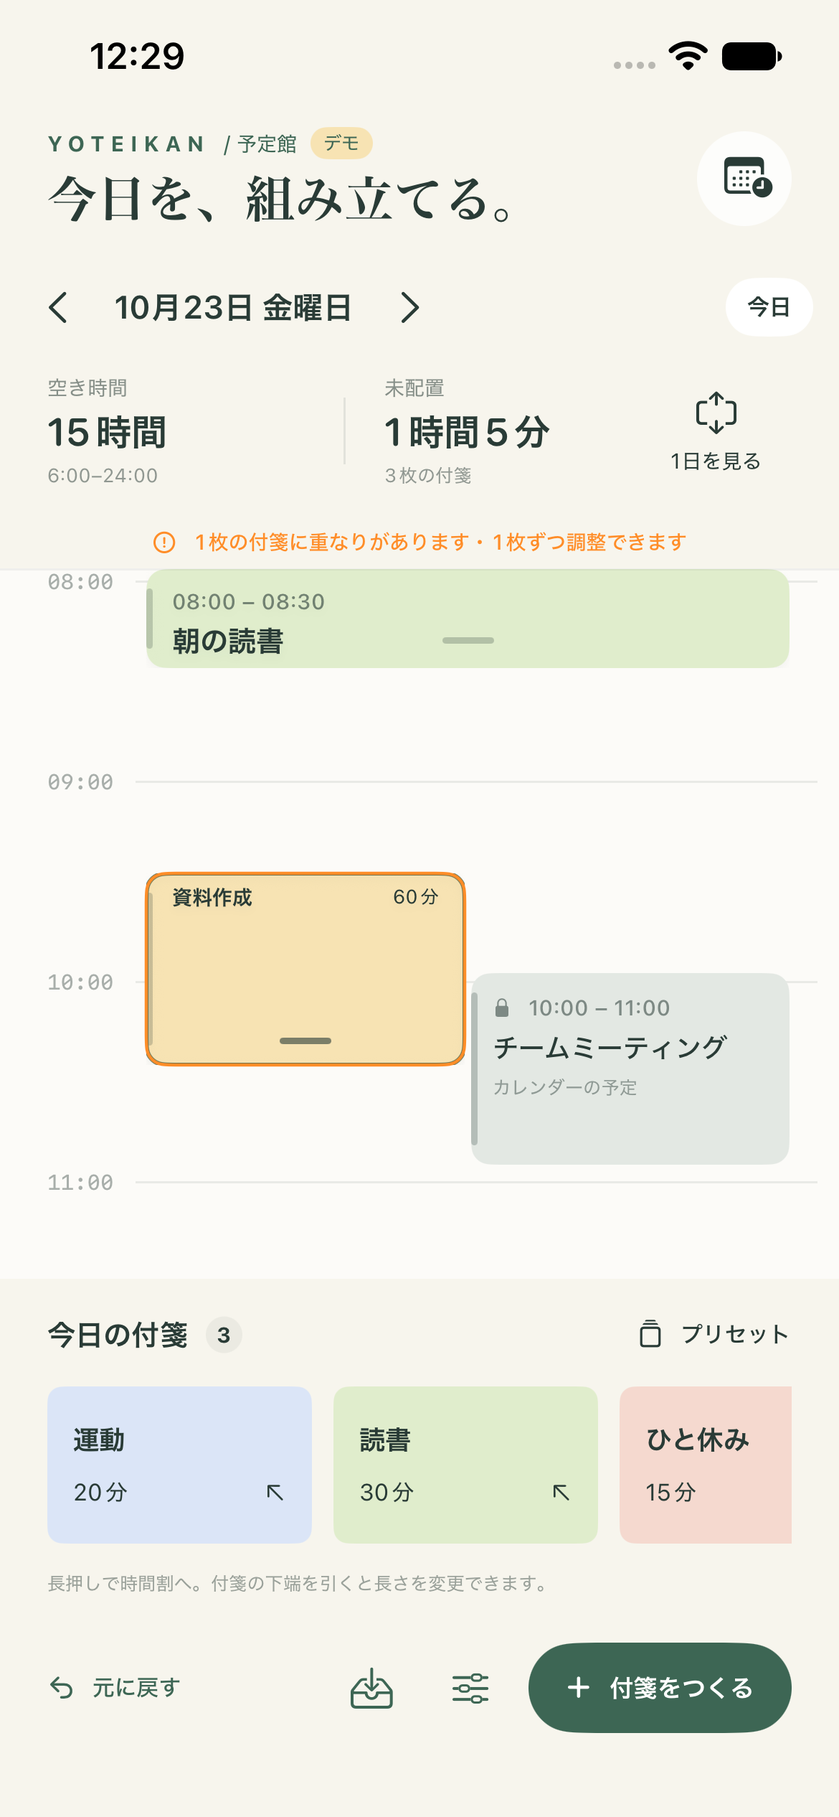
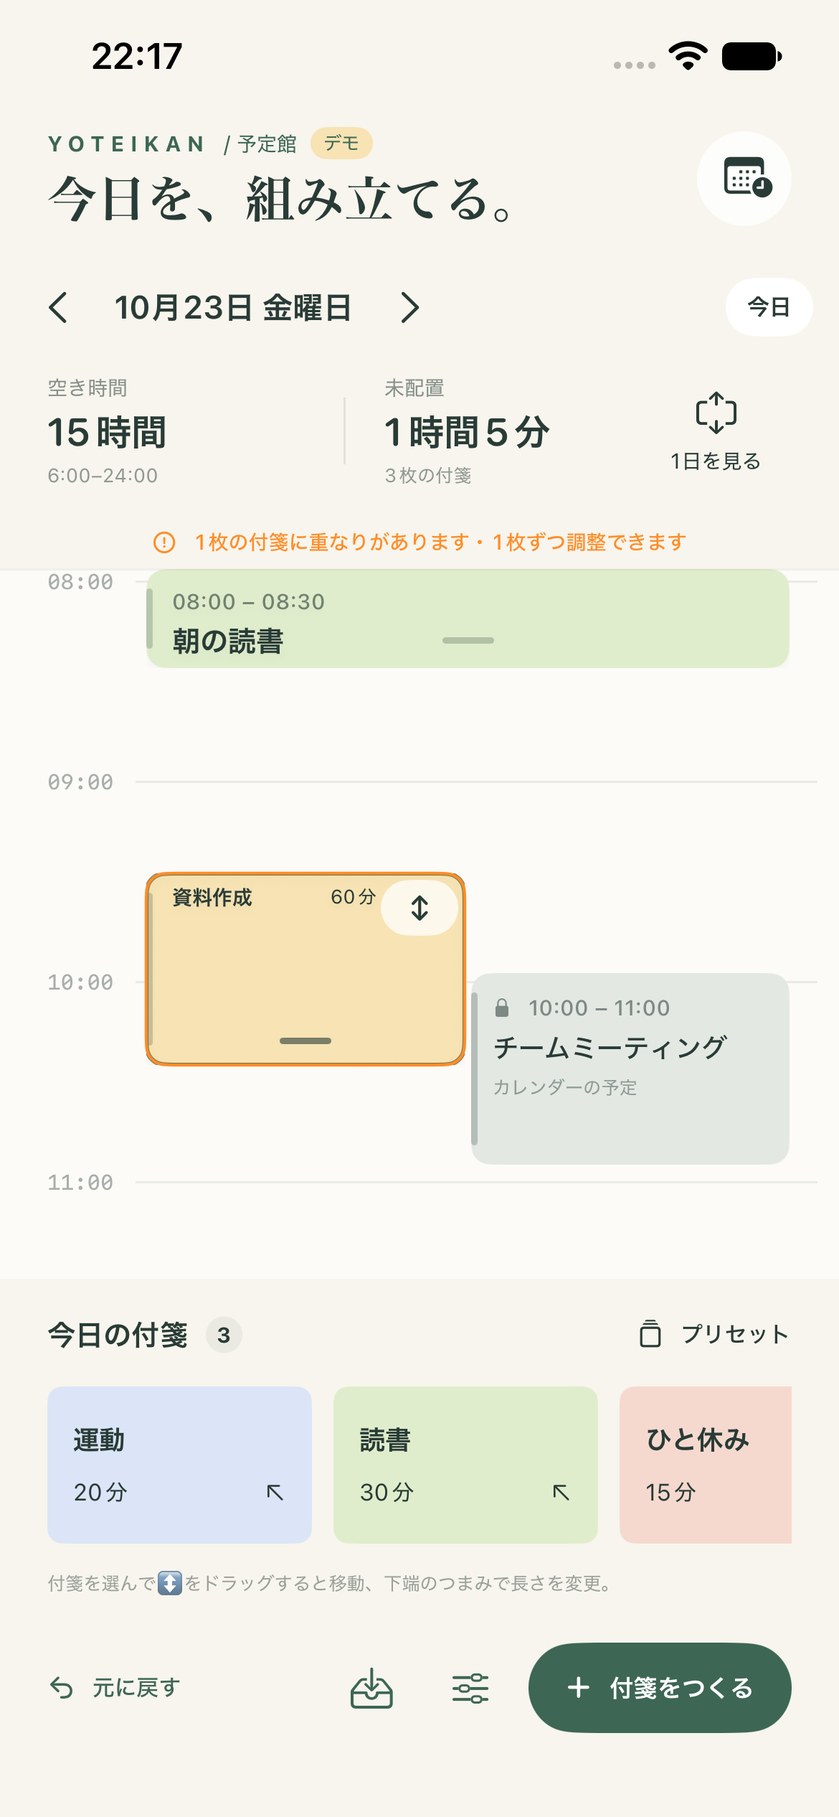
Fix start-time dragging for placed sticky notes (#1)

diff --git a/ios/Yoteikan/PlannerView.swift b/ios/Yoteikan/PlannerView.swift
@@ -123,6 +123,20 @@ struct PlannerView: View {
                                 .frame(width: width - 3, height: max(overview ? 3 : 24, CGFloat(task.minutes) * scale - (overview ? 1 : 4) + (stretching == task.id ? stretch : 0)))
                                 .overlay { if collision { RoundedRectangle(cornerRadius: 9).stroke(.orange, lineWidth: 1.5).allowsHitTesting(false) } }
                                 .overlay(alignment: .bottom) { if !overview { resizeHandle(task) } }
+                                .contentShape(Rectangle())
+                                .overlay(alignment: .topTrailing) {
+                                    if selected == task.id && !overview { moveHandle(task).padding(3) }
+                                }
+                                .overlay(alignment: .top) {
+                                    if moving == task.id && !returningToInbox {
+                                        let start = task.start! + PlannerMath.snap(Double(shift / scale))
+                                        Text("\(clockText(start)) – \(clockText(start + task.minutes))")
+                                            .font(.system(size: 11, weight: .semibold, design: .monospaced))
+                                            .padding(.horizontal, 10).padding(.vertical, 5)
+                                            .background(ink, in: Capsule()).foregroundStyle(.white)
+                                            .offset(y: -29).allowsHitTesting(false)
+                                    }
+                                }
                                 .offset(x: 58 + width * CGFloat(slot.column), y: CGFloat(task.start! - PlannerMath.first) * scale + 2 + (moving == task.id ? shift : 0))
                                 .zIndex(moving == task.id || stretching == task.id ? 5 : selected == task.id ? 3 : 1)
                                 .onTapGesture { if selected == task.id { editing = task } else { selected = task.id } }
@@ -167,7 +181,7 @@ struct PlannerView: View {
                 if duration >= 45 { Text(task.title).font(.system(size: 7, weight: .semibold)).lineLimit(1) }
             } else {
             if !compact { Text("\(clockText(start)) – \(clockText(start + duration))").font(.system(size: 10, weight: .medium)).foregroundStyle(ink.opacity(0.6)) }
-            HStack(spacing: 4) { Text(task.title).font(.system(size: compact ? 10 : 14, weight: .semibold)).lineLimit(1); Spacer(minLength: 0); if compact { Text("\(duration)分").font(.system(size: 9)) } }
+            HStack(spacing: 4) { Text(task.title).font(.system(size: compact ? 10 : 14, weight: .semibold)).lineLimit(1); Spacer(minLength: 0); if compact { Text("\(duration)分").font(.system(size: 9)) } }.padding(.trailing, selected == task.id ? 29 : 0)
             if !compact && duration >= 40 { Text(durationText(duration)).font(.system(size: 10)).foregroundStyle(ink.opacity(0.6)) }
             Spacer(minLength: 0)
             }
@@ -181,7 +195,7 @@ struct PlannerView: View {
     }
     private func resizeHandle(_ task: Sticky) -> some View {
         ZStack { Color.clear; Capsule().fill(ink.opacity(selected == task.id ? 0.6 : 0.25)).frame(width: 24, height: 3) }
-            .frame(height: 22).contentShape(Rectangle())
+            .frame(width: 44, height: 22).contentShape(Rectangle())
             .highPriorityGesture(DragGesture(minimumDistance: 0, coordinateSpace: .global).onChanged { value in
                 selected = task.id; stretching = task.id
                 let newDuration = PlannerMath.duration(task.minutes + PlannerMath.snap(Double(value.translation.height / scale)), start: task.start!)
@@ -191,23 +205,48 @@ struct PlannerView: View {
             })
             .accessibilityLabel("\(task.title)の長さを変更").accessibilityIdentifier("resize-\(task.title)")
     }
+    private func moveHandle(_ task: Sticky) -> some View {
+        Image(systemName: "arrow.up.and.down")
+            .font(.system(size: 12, weight: .semibold))
+            .frame(width: 36, height: 26)
+            .background(.white.opacity(0.75), in: Capsule())
+            .contentShape(Rectangle())
+            .highPriorityGesture(DragGesture(minimumDistance: 3, coordinateSpace: .global)
+                .onChanged { value in
+                    updateMove(task, delta: value.translation.height, location: value.location)
+                }
+                .onEnded { value in
+                    finishMove(task, delta: value.translation.height, location: value.location)
+                })
+            .accessibilityElement(children: .ignore)
+            .accessibilityLabel("\(task.title)の開始時刻を変更")
+            .accessibilityHint("上下にドラッグして移動します")
+            .accessibilityIdentifier("move-\(task.title)")
+    }
+    private func updateMove(_ task: Sticky, delta: CGFloat, location: CGPoint) {
+        guard let start = task.start else { return }
+        selected = task.id; moving = task.id
+        returningToInbox = inboxFrame.contains(location)
+        let newStart = PlannerMath.start(start + PlannerMath.snap(Double(delta / scale)), duration: task.minutes)
+        shift = CGFloat(newStart - start) * scale
+    }
+    private func finishMove(_ task: Sticky, delta: CGFloat, location: CGPoint) {
+        defer { moving = nil; shift = 0; returningToInbox = false }
+        guard let start = task.start else { return }
+        if inboxFrame.contains(location) { plans.put(task.id, at: nil); selected = nil }
+        else { plans.move(task.id, start: start + PlannerMath.snap(Double(delta / scale))) }
+    }
     private func moveGesture(_ task: Sticky) -> some Gesture {
         LongPressGesture(minimumDuration: 0.25).sequenced(before: DragGesture(minimumDistance: 0, coordinateSpace: .global))
             .onChanged { value in
                 if case .second(true, let drag?) = value {
-                    selected = task.id; moving = task.id
-                    returningToInbox = inboxFrame.contains(drag.location)
                     let delta = drag.location.y - (touchTask == task.id ? touchStart.y : drag.startLocation.y)
-                    let newStart = PlannerMath.start(task.start! + PlannerMath.snap(Double(delta / scale)), duration: task.minutes)
-                    shift = CGFloat(newStart - task.start!) * scale
+                    updateMove(task, delta: delta, location: drag.location)
                 }
             }.onEnded { value in
                 if case .second(true, let drag?) = value {
-                    if inboxFrame.contains(drag.location) { plans.put(task.id, at: nil); selected = nil }
-                    else {
-                        let delta = drag.location.y - (touchTask == task.id ? touchStart.y : drag.startLocation.y)
-                        plans.move(task.id, start: task.start! + PlannerMath.snap(Double(delta / scale)))
-                    }
+                    let delta = drag.location.y - (touchTask == task.id ? touchStart.y : drag.startLocation.y)
+                    finishMove(task, delta: delta, location: drag.location)
                 }
                 moving = nil; shift = 0; returningToInbox = false
             }
@@ -229,7 +268,7 @@ struct PlannerView: View {
                     }.padding(.vertical, 2)
                 }
             }
-            Text("長押しで時間割へ。付箋の下端を引くと長さを変更できます。 ").font(.system(size: 9)).foregroundStyle(ink.opacity(0.45))
+            Text("付箋を選んで↕をドラッグすると移動、下端のつまみで長さを変更。").font(.system(size: 9)).foregroundStyle(ink.opacity(0.45))
         }.padding(.horizontal, 22).padding(.top, 15).padding(.bottom, 13)
             .background(returningToInbox ? tones[0] : paper)
             .background { GeometryReader { proxy in Color.clear.onAppear { inboxFrame = proxy.frame(in: .global) }.onChange(of: proxy.frame(in: .global)) { _, frame in inboxFrame = frame } } }

diff --git a/docs/screenshots/index.html b/docs/screenshots/index.html
@@ -1,1 +1,1 @@
-<!doctype html><html lang="ja"><meta charset="utf-8"><meta name="viewport" content="width=device-width,initial-scale=1"><title>予定館・実機能確認</title><style>body{background:#f7f5ed;color:#293b35;font:15px system-ui;margin:32px}h1{font-size:24px}.grid{display:grid;grid-template-columns:repeat(auto-fit,minmax(240px,1fr));gap:28px}figure{margin:0}img{width:100%;max-width:390px;border-radius:24px;box-shadow:0 8px 32px #293b3520}figcaption{margin:12px 0 20px}p{line-height:1.8}</style><h1>予定館 / シミュレーター動作確認</h1><p>iPhone 17e・iOS 27。XCTestで実際に操作した画面です。デモ表記のある画面はサンプル予定、カレンダー画面はシミュレーターのEventKitに登録した検証用予定を使用しています。</p><div class="grid"><figure><a href="01-day-planner.png"><img src="01-day-planner.png" alt="01-day-planner"></a><figcaption>01-day-planner</figcaption></figure><figure><a href="02-presets.png"><img src="02-presets.png" alt="02-presets"></a><figcaption>02-presets</figcaption></figure><figure><a href="03-sticky-editor.png"><img src="03-sticky-editor.png" alt="03-sticky-editor"></a><figcaption>03-sticky-editor</figcaption></figure><figure><a href="04-overlap-after-drag.png"><img src="04-overlap-after-drag.png" alt="04-overlap-after-drag"></a><figcaption>04-overlap-after-drag</figcaption></figure><figure><a href="05-resize-overlap.png"><img src="05-resize-overlap.png" alt="05-resize-overlap"></a><figcaption>05-resize-overlap</figcaption></figure><figure><a href="06-day-overview.png"><img src="06-day-overview.png" alt="06-day-overview"></a><figcaption>06-day-overview</figcaption></figure><figure><a href="07-calendar-settings.png"><img src="07-calendar-settings.png" alt="07-calendar-settings"></a><figcaption>07-calendar-settings</figcaption></figure><figure><a href="08-real-calendar-events.png"><img src="08-real-calendar-events.png" alt="08-real-calendar-events"></a><figcaption>08-real-calendar-events</figcaption></figure></div></html>
+<!doctype html><html lang="ja"><meta charset="utf-8"><meta name="viewport" content="width=device-width,initial-scale=1"><title>予定館・実機能確認</title><style>body{background:#f7f5ed;color:#293b35;font:15px system-ui;margin:32px}h1{font-size:24px}.grid{display:grid;grid-template-columns:repeat(auto-fit,minmax(240px,1fr));gap:28px}figure{margin:0}img{width:100%;max-width:390px;border-radius:24px;box-shadow:0 8px 32px #293b3520}figcaption{margin:12px 0 20px}p{line-height:1.8}</style><h1>予定館 / シミュレーター動作確認</h1><p>iPhone 17e・iOS 27。XCTestで実際に操作した画面です。デモ表記のある画面はサンプル予定、カレンダー画面はシミュレーターのEventKitに登録した検証用予定を使用しています。</p><div class="grid"><figure><a href="01-day-planner.png"><img src="01-day-planner.png" alt="01-day-planner"></a><figcaption>01-day-planner</figcaption></figure><figure><a href="02-presets.png"><img src="02-presets.png" alt="02-presets"></a><figcaption>02-presets</figcaption></figure><figure><a href="03-sticky-editor.png"><img src="03-sticky-editor.png" alt="03-sticky-editor"></a><figcaption>03-sticky-editor</figcaption></figure><figure><a href="04-overlap-after-drag.png"><img src="04-overlap-after-drag.png" alt="04-overlap-after-drag"></a><figcaption>04-overlap-after-drag</figcaption></figure><figure><a href="05-resize-overlap.png"><img src="05-resize-overlap.png" alt="05-resize-overlap"></a><figcaption>05-resize-overlap</figcaption></figure><figure><a href="06-day-overview.png"><img src="06-day-overview.png" alt="06-day-overview"></a><figcaption>06-day-overview</figcaption></figure><figure><a href="07-calendar-settings.png"><img src="07-calendar-settings.png" alt="07-calendar-settings"></a><figcaption>07-calendar-settings</figcaption></figure><figure><a href="08-real-calendar-events.png"><img src="08-real-calendar-events.png" alt="08-real-calendar-events"></a><figcaption>08-real-calendar-events</figcaption></figure><figure><a href="09-start-time-drag.png"><img src="09-start-time-drag.png" alt="09-start-time-drag"></a><figcaption>09-start-time-drag</figcaption></figure></div></html>

diff --git a/ios/YoteikanUITests/YoteikanUITests.swift b/ios/YoteikanUITests/YoteikanUITests.swift
@@ -107,4 +107,63 @@ final class YoteikanUITests: XCTestCase {
         app.buttons["calendarSettings"].tap(); toggle.coordinate(withNormalizedOffset: CGVector(dx: 0.9, dy: 0.5)).tap(); app.buttons["closeCalendar"].tap()
         XCTAssertTrue(app.descendants(matching: .any).matching(identifier: "fixed-チームミーティング").firstMatch.waitForExistence(timeout: 3))
     }
+
+    private func createAndPlaceSticky() -> XCUIElement {
+        app.buttons["newStickyButton"].tap()
+        app.textFields["stickyTitle"].tap()
+        app.textFields["stickyTitle"].typeText("移動の確認")
+        app.buttons["duration-60"].tap()
+        app.buttons["saveSticky"].tap()
+        let inbox = app.descendants(matching: .any).matching(identifier: "inbox-移動の確認").firstMatch
+        XCTAssertTrue(inbox.waitForExistence(timeout: 3))
+        let target = app.scrollViews["timeline"].coordinate(withNormalizedOffset: CGVector(dx: 0.6, dy: 0.4))
+        inbox.coordinate(withNormalizedOffset: CGVector(dx: 0.5, dy: 0.5)).press(forDuration: 0.7, thenDragTo: target)
+        let task = app.otherElements["task-移動の確認"]
+        XCTAssertTrue(task.waitForExistence(timeout: 3))
+        return task
+    }
+    private func placement(of task: XCUIElement) -> (start: Int, duration: Int) {
+        let fields = (task.value as? String ?? "").split(separator: "|")
+        XCTAssertEqual(fields.count, 2)
+        guard fields.count == 2 else { return (-1, -1) }
+        let clock = fields[0].split(separator: ":").compactMap { Int($0) }
+        guard clock.count == 2, let duration = Int(fields[1]) else { XCTFail("Missing placement value"); return (-1, -1) }
+        return (clock[0] * 60 + clock[1], duration)
+    }
+    func test08NewlyPlacedStickyMovesFromEmptyBodyArea() {
+        launch(["--reset-test-data"])
+        let task = createAndPlaceSticky()
+        let before = placement(of: task)
+        let point = task.coordinate(withNormalizedOffset: CGVector(dx: 0.8, dy: 0.6))
+        point.press(forDuration: 0.5, thenDragTo: point.withOffset(CGVector(dx: 0, dy: -46.5)))
+        let after = placement(of: task)
+        XCTAssertEqual(after.start, before.start - 30)
+        XCTAssertEqual(after.duration, 60)
+        XCTAssertFalse(app.descendants(matching: .any).matching(identifier: "inbox-移動の確認").firstMatch.exists)
+    }
+    func test09MoveHandleChangesStartAndPersistsWithUndo() {
+        launch(["--reset-test-data"])
+        let task = createAndPlaceSticky()
+        let before = placement(of: task)
+        let handle = app.otherElements["move-移動の確認"]
+        XCTAssertTrue(handle.waitForExistence(timeout: 3))
+        let point = handle.coordinate(withNormalizedOffset: CGVector(dx: 0.5, dy: 0.5))
+        point.press(forDuration: 0.05, thenDragTo: point.withOffset(CGVector(dx: 0, dy: -46.5)))
+        XCTAssertEqual(placement(of: task).start, before.start - 30)
+        XCTAssertEqual(placement(of: task).duration, 60)
+        shot("09-start-time-drag")
+        app.buttons["undoButton"].tap()
+        XCTAssertEqual(placement(of: task).start, before.start)
+        XCTAssertEqual(placement(of: task).duration, 60)
+        let handleAgain = app.otherElements["move-移動の確認"]
+        XCTAssertTrue(handleAgain.waitForExistence(timeout: 3))
+        let again = handleAgain.coordinate(withNormalizedOffset: CGVector(dx: 0.5, dy: 0.5))
+        again.press(forDuration: 0.05, thenDragTo: again.withOffset(CGVector(dx: 0, dy: -46.5)))
+        XCTAssertEqual(placement(of: task).start, before.start - 30)
+        app.terminate(); launch([])
+        let restored = app.otherElements["task-移動の確認"]
+        XCTAssertTrue(restored.waitForExistence(timeout: 3))
+        XCTAssertEqual(placement(of: restored).start, before.start - 30)
+        XCTAssertEqual(placement(of: restored).duration, 60)
+    }
 }

diff --git a/README.md b/README.md
@@ -7,7 +7,7 @@
 ## できること
 
 - 内容・所要時間・色・メモ付きの付箋を作成。
-- 長押しドラッグで配置・移動し、下端のドラッグで延長・短縮。
+- 長押しドラッグで配置し、選択後は右上の↕をドラッグして開始時刻を変更。下端のつまみで延長・短縮。
 - 変更するのは触っている1枚だけ。ほかの付箋や会議は自動で動かない。
 - 予定の重なりを許可し、並列表示と枠線で知らせる。
 - 未配置への戻し、直前の変更を元に戻す、端末内への保存。
@@ -30,7 +30,7 @@ macOSと、iOS 17以降をビルドできるXcodeが必要です。
 1. 右上のカレンダー設定でアクセスを許可し、表示するカレンダーを選ぶ。
 2. 「プリセット」から今日やる付箋を追加する。その日だけの用事は「付箋をつくる」から作成する。
 3. 下部の未配置の付箋を長押しし、時間割へドラッグする。
-4. 配置した付箋は長押しで移動、下端のつまみで長さを変更する。
+4. 配置した付箋をタップして選び、右上の↕を上下にドラッグして開始時刻を変更する。付箋全体を長押しして移動する方法も使える。下端のつまみでは長さを変更する。
 5. 下部へドラッグすると未配置へ戻る。タップで選択すると編集・未配置に戻すボタンも表示される。もう一度タップしても編集できる。
 6. 「元に戻す」で直前の変更を戻す。
 
@@ -43,8 +43,8 @@ macOSと、iOS 17以降をビルドできるXcodeが必要です。
 | [アプリ設計](docs/design.md) | 仕様、データモデル、画面構成、カレンダー権限、初期版の範囲 |
 | [開発・検証手順](docs/development.md) | 技術構成、ビルド・テスト、Goによるスクショ出力、テスト用の起動引数 |
 | [動作確認](docs/verification.md) | 確認した操作、検証環境、実機で未確認の項目 |
-| [スクリーンショット8枚](docs/screenshots/README.md) | 実際に操作して取得した画面 |
-| [テスト結果の抜粋](docs/test-results.txt) | 全13件成功と、表示調整後のUIテスト3件成功の記録 |
+| [スクリーンショット9枚](docs/screenshots/README.md) | 実際に操作して取得した画面 |
+| [テスト結果の抜粋](docs/test-results.txt) | Issue #1改善後の全15件成功の記録 |
 
 ## 技術構成
 

diff --git a/docs/verification.md b/docs/verification.md
@@ -2,7 +2,17 @@
 
 2026年10月23日。iPhone 17eシミュレーター / iOS 27.0で確認しました。
 
-初期版をSwiftUIで実装し、ユニットテスト6件・UI操作テスト7件の計13件がすべて成功しました。スクリーンショット抽出・一覧作成ツールはGoで実装しています。Pythonへの依存はありません。
+初期版をSwiftUIで実装し、Issue #1の改善後、ユニットテスト6件・UI操作テスト9件の計15件がすべて成功しました。スクリーンショット抽出・一覧作成ツールはGoで実装しています。Pythonへの依存はありません。
+
+## Issue #1：配置後の開始時刻変更
+
+[Issue #1](https://github.com/sfujibijutsukan/yoteikan/issues/1)では、追加した付箋の開始時刻をドラッグで変更する操作を改善しました。
+
+- 旧版で、追加直後の付箋の余白を長押ししても開始時刻が変わらないケースをUIテストで再現。
+- 付箋全体に操作領域を設定し、文字のない部分からも長押しで移動できるよう修正。
+- 選択した付箋の右上に移動つまみを表示。長押しを待たずに上下ドラッグで移動できる。
+- 移動中は開始・終了時刻を表示し、下端の伸縮つまみと操作領域を分離。
+- 新規作成→配置→30分移動の操作、60分の所要時間保持、Undo、再起動後の保存を確認。
 
 ## 確認した動作
 
@@ -37,10 +47,11 @@
 6. [1日全体の表示](screenshots/06-day-overview.png)
 7. [カレンダーの選択](screenshots/07-calendar-settings.png)
 8. [EventKitで読み込んだ予定](screenshots/08-real-calendar-events.png)
+9. [移動つまみで開始時刻を変更](screenshots/09-start-time-drag.png)
 
 ## 検証結果の記録
 
-- [テスト結果の抜粋](test-results.txt)：ユニットテスト6件・UI操作テスト7件の成功と、表示調整後のUIテスト3件の成功。
+- [テスト結果の抜粋](test-results.txt)：ユニットテスト6件・UI操作テスト9件の計15件が成功。最新の結果は artifacts/Issue1Validation.xcresult と artifacts/issue-1-validation.log に保存。
 - 元のログとXcode結果バンドルはローカルの artifacts/ に保存。生成物のためGit管理対象外。
 - [開発・検証手順](development.md)に、テスト実行とスクリーンショット生成の再現手順を記載。
 

diff --git a/docs/design.md b/docs/design.md
@@ -28,7 +28,8 @@
 | 操作 | 結果 |
 |---|---|
 | 未配置の付箋を長押しして時間割へドラッグ | 所要時間を保ったまま配置 |
-| 配置済みの付箋を長押しして上下にドラッグ | 所要時間を保ったまま開始時刻を変更 |
+| 配置済みの付箋を選択し、右上の↕をドラッグ | 長押しを待たず、所要時間を保ったまま開始時刻を変更 |
+| 配置済みの付箋を長押しして上下にドラッグ | 文字のない余白も含めた付箋全体から開始時刻を変更 |
 | 付箋の下端をドラッグ | 開始時刻を保ったまま延長・短縮 |
 | 下部へドラッグ、または未配置に戻すボタン | 開始時刻を外し、内容と所要時間を保持 |
 | 元に戻す | 直前の付箋・プリセット変更を1段階戻す |
@@ -38,7 +39,9 @@
 
 重なる予定は連続して重なり合うグループに分け、グループ内で列を割り当てる。付箋には枠線と重なり件数を表示する。空き時間の計算は、重複した時間を二重に差し引かない。
 
-「1日を見る」では全体の配置を確認し、「拡大する」で細かい操作へ戻る。
+移動中は開始・終了時刻を表示する。右上の↕は移動用、下端のつまみは伸縮用として操作領域を分ける。配置した直後にも移動つまみを表示し、編集画面を開かずに時間を変更できる。
+
+「1日を見る」では全体の配置を確認し、「拡大する」で細かい操作へ戻る。移動つまみは拡大表示で使用する。
 
 ## データモデル
 

diff --git a/docs/development.md b/docs/development.md
@@ -35,7 +35,7 @@ xcrun simctl launch "$device_id" com.sota.yoteikan
 
 ## テスト
 
-ユニットテストは保存・Undo・日付ごとの分離・プリセットの独立性・境界・スナップ・重なりを確認する。UIテストは配置、移動、伸縮、未配置への戻し、再起動後の復元、プリセットの追加作成、カレンダー読み込みと選択を実際の操作で確認する。
+ユニットテストは保存・Undo・日付ごとの分離・プリセットの独立性・境界・スナップ・重なりを確認する。UIテストは配置、移動、伸縮、未配置への戻し、再起動後の復元、プリセットの追加作成、カレンダー読み込みと選択を実際の操作で確認する。Issue #1の回帰テストでは、新規付箋をドラッグで配置した直後に、余白の長押しと右上の移動つまみの両方から開始時刻を変更する。移動後の所要時間保持、Undo、再起動後の保存も確認する。
 
 ```sh
 result_path="artifacts/Check-$(date +%Y%m%d-%H%M%S).xcresult"
